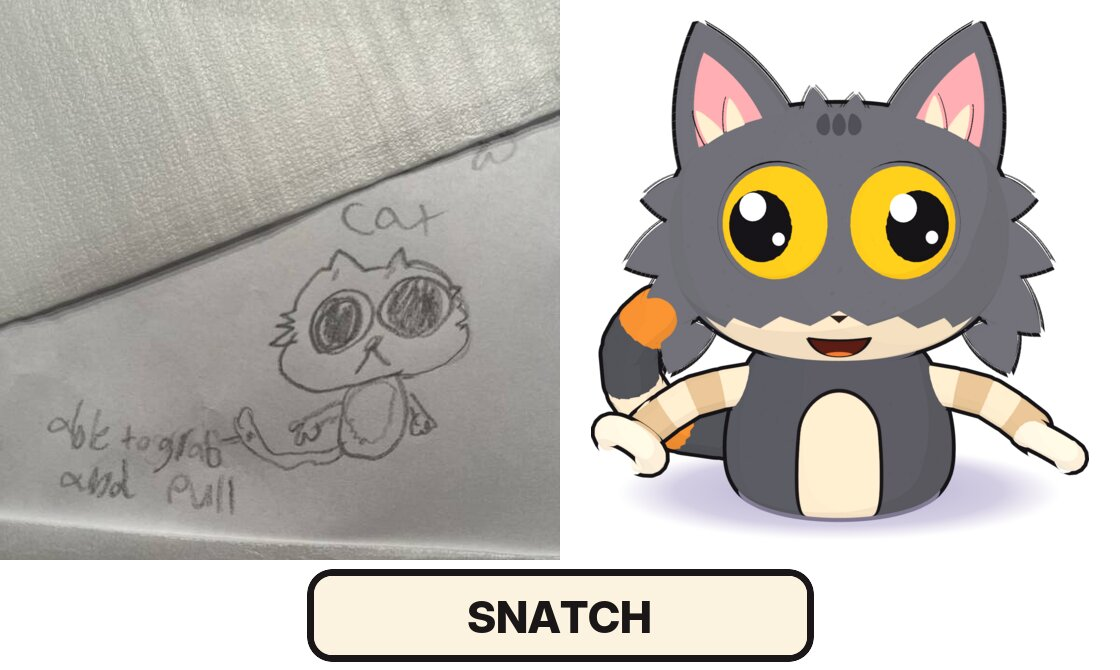
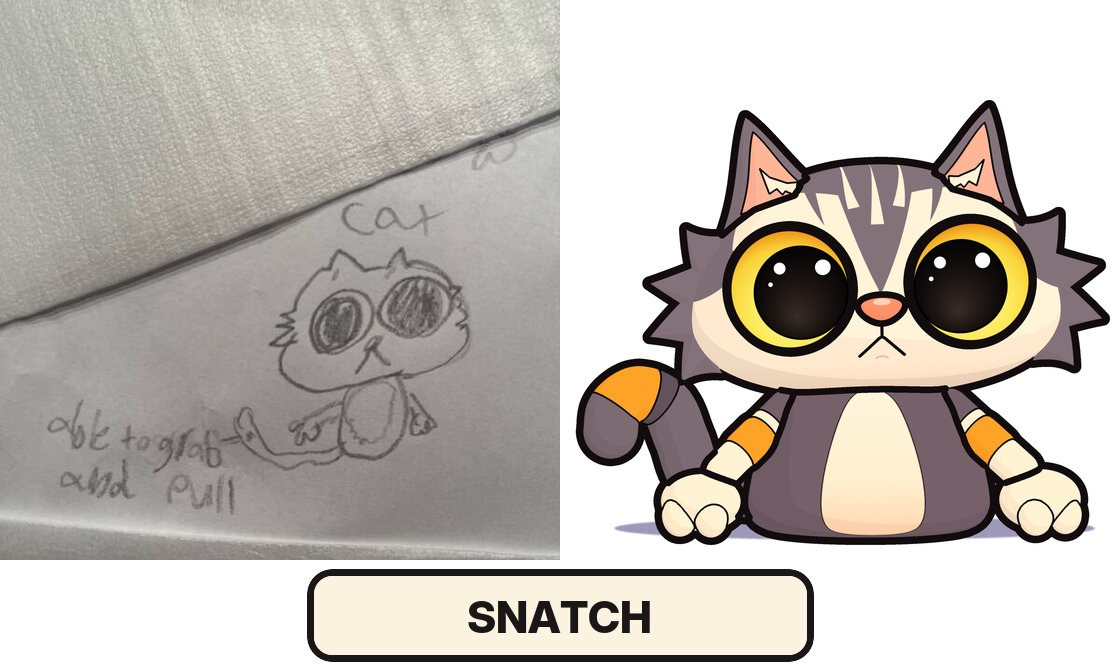
Match Snatch to the owner's close-up
The owner's close-up of Snatch is now the cat's target, refining the
reference sheet: a small closed mouth, a gray V down to a pink nose,
orange bands on cream arms, mitten paws, and a thick tail curling up
behind the left paw. A new concept render matches it, in the cat's
in-game picture and the five-character sheet. The doc takes the
close-up's details and notes how the render draws lines between parts.

Claude-Session: https://claude.ai/code/session_01Hd9Frv5A2KxCGo8fmniyj8

Changed region(s): [[0.5, 0.0299, 1.0, 0.8358]]

diff --git a/docs/initiatives/sketchbook-characters.md b/docs/initiatives/sketchbook-characters.md
@@ -13,6 +13,11 @@ Five characters, drawn by the owner's son: a **cat**, an **astronaut**, a **pump
 
 ![The reference sheet](sketchbook/reference-sheet.jpg)
 
+The owner then made a close-up of Snatch. Where it differs from the sheet (a small closed mouth, orange bands on the
+arms, mitten paws), the close-up wins.
+
+![Snatch, close up](sketchbook/snatch.jpg)
+
 They're chunky cartoon robots: big heads on small bodies, **cel-shaded with thick black outlines**, a little scuffed.
 Every head is built by **one shape generator** with the same layout (the same vertices, texture map, and feature
 spots), and so is every torso; each character sets a few numbers (width, height, depth, how boxy, ribs) to get its
@@ -30,8 +35,8 @@ under its body (Spider Web walks on its four legs instead).
 
 ### In the game
 
-Concept renders built in three.js to match the reference sheet, the way this doc plans to build them: shared shape
-generators, toon materials on a three-tone ramp, and inverted-hull outlines. They're the look to aim for.
+Concept renders built in three.js to match the reference sheet (and Snatch's close-up), the way this doc plans to build
+them: shared shape generators, toon materials on a stepped ramp, and thick outlines. They're the look to aim for.
 
 ![All five characters in the game](sketchbook/characters.jpg)
 
@@ -50,6 +55,7 @@ By the owner, 2026-11-07.
 
 - **Five characters, from the drawings:** cat, astronaut, pumpkin, spider, and homemade.
 - **The reference sheet is the design.** Shapes, colors, faces, arms, and hands follow it as exactly as the game can.
+  For Snatch, the close-up refines it.
 - **Their names are the sheet's:** Snatch (cat), Astro (astronaut), Patch (pumpkin), Spider Web (spider), and Homemade
   Web (homemade).
 - **Same torso geometry, same head geometry,** as one layout per part: one generator, one texture map, the same
@@ -78,6 +84,10 @@ By the owner, 2026-11-07.
   colors, like the sheet.
 - **Thick black outlines** from an inverted hull: each part's mesh drawn again, pushed out along its normals, back
   faces only, in near-black. One shared outline material per thickness.
+- **Lines between parts.** The close-up also draws lines across a part: between an arm's bands, between a paw's
+  fingers. A hull can't draw those. Snatch's render draws every line from a part-ID pass instead: each part rendered
+  in a flat id color, and a line wherever the id changes (thick around the silhouette and between parts, thin between
+  bands). PR 1 picks one of the two, or a hull with the bands' lines drawn into the skin.
 - **Scuffs:** cream and orange skins carry specks and a few scratches, drawn into the skin texture.
 - **Glows are unlit,** not lights (D9): Patch's eyes, Spider Web's eye slits and chest slit, and Astro's chest buttons,
   with a soft sprite halo.
@@ -98,11 +108,11 @@ By the owner, 2026-11-07.
 - **Torsos keep the standard mounts** (the neck spot on top, shoulders, the hold point, a chest hatch), placed on each
   shape, so any head and any arms fit any torso, and a character's head and arms fit the old bodies too.
 - **The arms** are segmented: short capsules in two alternating colors, so the outline draws each joint. The hand on
-  the end changes per character: round C-shaped grabbers (Snatch, Astro), dark hooked claws (Patch), three-toed claw
-  feet (Spider Web). Homemade Web has a bundle of sticks instead.
+  the end changes per character: round mitten paws (Snatch), round C-shaped grabbers (Astro), dark hooked claws
+  (Patch), three-toed claw feet (Spider Web). Homemade Web has a bundle of sticks instead.
 - **The jaw:** the head's jaw is one cut in the shared shape (the lower front, below the face), the same for every
-  character. Each skin draws its own mouth on it: Snatch's and Patch's open grins. Homemade Web has no face, so its jaw
-  is the cap's dark underside. With no head, the torso's chest hatch is the mouth, as on every body.
+  character. Each skin draws its own mouth on it: Snatch's small closed one and Patch's open grin. Homemade Web has no
+  face, so its jaw is the cap's dark underside. With no head, the torso's chest hatch is the mouth, as on every body.
 
 ### Skins
 
@@ -118,7 +128,7 @@ By the owner, 2026-11-07.
 
 | | Head | Body | Arms and hands | Features |
 | --- | --- | --- | --- | --- |
-| **Snatch**, the cat | Wide gray head with tabby stripes and a cream lower face; huge yellow eyes with black pupils and white shines; an open grin with a tongue | A dark gray bell with a cream belly | Cream-and-tan striped arms, round cream C grabbers | Big pointed ears, pink inside with cream fluff; spiky fur tufts on the cheeks; a ringed tail (gray, orange, cream) curling up behind |
+| **Snatch**, the cat | Wide head, gray on top with cream tabby stripes, a gray V down to a pink nose, and a cream face; huge yellow eyes with big black pupils and white shines; a small closed cat mouth | A dark gray bell with a cream belly | Gray at the shoulder, then cream with an orange band; round cream mitten paws with curled fingers | Big pointed ears, pink inside with cream fluff; spiky gray fur tufts on the cheeks; a thick tail, gray with an orange ring, curling up behind its left paw |
 | **Astro**, the astronaut | A cream, round-cornered helmet with a big glossy navy visor and white shines | A small cream box with a slate chest panel of four lit orange squares | Cream-and-orange striped arms, round white C grabbers | Antenna with an orange ball, round ear discs with orange centers, a backpack |
 | **Patch**, the pumpkin | A wide ribbed pumpkin with glowing yellow eyes in orange sockets and an open grin with a tongue | A ribbed orange bell with a small chest panel of four dark buttons | Long tan striped arms, dark gray hooked three-finger claws | A brown stem |
 | **Spider Web**, the spider | A wide dark dome with panel seams, and two glowing orange slit eyes at its lower front corners | A small dark rounded box with a glowing orange slit and a little grille, on a short neck | Four legs: two thin ones from under the dome to the body's sides, two big ones out and down to three-toed claw feet | Glowing eyes and chest slit |
@@ -176,7 +186,7 @@ merges.
 
 | # | Status | Branch | PR title | What it adds | Protocol / schema |
 | --- | --- | --- | --- | --- | --- |
-| 1 | Next | `feature/sketchbook-cat` | Turn the sketchbook cat into a robot | The head and torso shape generators, each character's shape numbers, the shared arm, feature anchors, and jaw; the small drive roller as a mobility part; skins with paint masks (the coat shader's `cure × mask`); `shared/content/characters.ts`; the Characters shelf with the drawing on each card. The toon material with outlines. Snatch: its skins, grabbers, ears, fur tufts, eyes, and a ringed tail that swishes (grabbing comes in PR 6). A close-up screenshot, painted and not, and every classic baseline unchanged. | `PROTOCOL_VERSION` bump |
+| 1 | Next | `feature/sketchbook-cat` | Turn the sketchbook cat into a robot | The head and torso shape generators, each character's shape numbers, the shared arm, feature anchors, and jaw; the small drive roller as a mobility part; skins with paint masks (the coat shader's `cure × mask`); `shared/content/characters.ts`; the Characters shelf with the drawing on each card. The toon material with outlines. Snatch: its skins, mitten paws, ears, fur tufts, eyes, and a ringed tail that swishes (grabbing comes in PR 6). A close-up screenshot, painted and not, and every classic baseline unchanged. | `PROTOCOL_VERSION` bump |
 | 2 | | `feature/sketchbook-astronaut` | Turn the sketchbook astronaut into a robot | Astro: the helmet and visor, the boxy body and chest panel, striped arms and grabbers, the antenna, ear discs, and backpack. A screenshot. | `PROTOCOL_VERSION` bump |
 | 3 | | `feature/sketchbook-pumpkin` | Turn the sketchbook pumpkin into a robot | Patch: the ribbed pumpkin head and body, glowing eyes, the stem, the chest panel, and hooked claws. A screenshot. | `PROTOCOL_VERSION` bump |
 | 4 | | `feature/sketchbook-spider` | Turn the sketchbook spider into a robot | Spider Web: the dark dome with glowing slit eyes, the box body on its neck, and four jointed legs with claw feet that step as it rolls. A screenshot. | `PROTOCOL_VERSION` bump |
